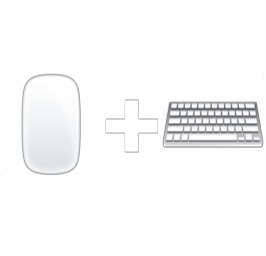
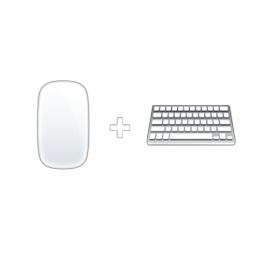
style

Changed region(s): [[0.0938, 0.2812, 1.0, 0.6562], [0.0625, 0.3438, 0.2812, 0.6875]]

diff --git a/public/gfx/sprites.css b/public/gfx/sprites.css
@@ -14,112 +14,112 @@
 
 /* Specific icons */
 .icon-assign {
-    background-size: 565.9218% 588.2022%;
-    background-position: 46.7626% 30.7250%;
+    background-size: 284.3575% 1147.1910%;
+    background-position: 0.3030% 62.2854%;
     aspect-ratio: 179 / 178;
 }
 .icon-attack {
-    background-size: 592.3977% 612.2807%;
-    background-position: 21.8527% 93.7215%;
+    background-size: 297.6608% 1194.1520%;
+    background-position: 0.2959% 81.2400%;
     aspect-ratio: 171 / 171;
 }
 .icon-autoplay {
-    background-size: 633.1250% 619.5266%;
-    background-position: 42.9074% 51.2528%;
+    background-size: 318.1250% 1208.2840%;
+    background-position: 99.7135% 96.6898%;
     aspect-ratio: 160 / 169;
 }
 .icon-campaigns {
-    background-size: 559.6685% 578.4530%;
-    background-position: 0.1202% 53.4642%;
+    background-size: 281.2155% 1128.1768%;
+    background-position: 0.3049% 13.9172%;
     aspect-ratio: 181 / 181;
 }
 .icon-close {
-    background-size: 744.8529% 775.5556%;
-    background-position: 85.6328% 19.9561%;
+    background-size: 374.2647% 1512.5926%;
+    background-position: 98.3914% 31.7777%;
     aspect-ratio: 136 / 135;
 }
 .icon-defend {
-    background-size: 830.3279% 578.4530%;
-    background-position: 99.8878% 0.1155%;
+    background-size: 417.2131% 1128.1768%;
+    background-position: 94.8320% 39.9248%;
     aspect-ratio: 122 / 181;
 }
 .icon-dice {
-    background-size: 572.3164% 594.8864%;
-    background-position: 22.0096% 73.8232%;
+    background-size: 287.5706% 1160.2273%;
+    background-position: 54.5181% 73.1511%;
     aspect-ratio: 177 / 176;
 }
 .icon-gamepad {
-    background-size: 559.6685% 666.8790%;
-    background-position: 31.1298% 12.1348%;
+    background-size: 281.2155% 1300.6369%;
+    background-position: 56.0976% 35.2785%;
     aspect-ratio: 181 / 157;
 }
 .icon-help {
-    background-size: 1055.2083% 787.2180%;
-    background-position: 96.9466% 20.1313%;
+    background-size: 530.2083% 1535.3383%;
+    background-position: 88.3777% 48.5071%;
     aspect-ratio: 96 / 133;
 }
 .icon-input-mk {
-    background-size: 382.2642% 997.1429%;
-    background-position: 34.6257% 0.1062%;
-    aspect-ratio: 265 / 105;
+    background-size: 231.3636% 2219.5652%;
+    background-position: 89.6194% 0.0513%;
+    aspect-ratio: 220 / 92;
 }
 .icon-map {
-    background-size: 559.6685% 578.4530%;
-    background-position: 0.1202% 74.5958%;
+    background-size: 281.2155% 1128.1768%;
+    background-position: 75.0000% 16.0666%;
     aspect-ratio: 181 / 181;
 }
 .icon-music-off {
-    background-size: 569.1011% 588.2022%;
-    background-position: 68.3832% 21.1738%;
+    background-size: 285.9551% 1147.1910%;
+    background-position: 54.9849% 63.5730%;
     aspect-ratio: 178 / 178;
 }
 .icon-music-on {
-    background-size: 569.1011% 591.5254%;
-    background-position: 68.3832% 41.8391%;
+    background-size: 285.9551% 1153.6723%;
+    background-position: 0.3021% 71.9035%;
     aspect-ratio: 178 / 177;
 }
 .icon-paint {
-    background-size: 559.6685% 578.4530%;
-    background-position: 0.1202% 95.7275%;
+    background-size: 281.2155% 1128.1768%;
+    background-position: 0.3049% 23.7507%;
     aspect-ratio: 181 / 181;
 }
 .icon-retry {
-    background-size: 559.6685% 578.4530%;
-    background-position: 24.8798% 30.8314%;
+    background-size: 281.2155% 1128.1768%;
+    background-position: 56.0976% 25.9001%;
     aspect-ratio: 181 / 181;
 }
 .icon-save {
-    background-size: 559.6685% 578.4530%;
-    background-position: 63.2212% 0.1155%;
+    background-size: 281.2155% 1128.1768%;
+    background-position: 0.3049% 33.5841%;
     aspect-ratio: 181 / 181;
 }
 .icon-scenario {
-    background-size: 562.7778% 612.2807%;
-    background-position: 90.1561% 56.9635%;
+    background-size: 282.7778% 1194.1520%;
+    background-position: 0.3040% 52.8060%;
     aspect-ratio: 180 / 171;
 }
 .icon-settings {
-    background-size: 565.9218% 584.9162%;
-    background-position: 85.0120% 0.1152%;
+    background-size: 284.3575% 1140.7821%;
+    background-position: 55.4545% 53.8916%;
     aspect-ratio: 179 / 179;
 }
 .icon-sfx-off {
-    background-size: 562.7778% 588.2022%;
-    background-position: 90.1561% 36.7089%;
+    background-size: 282.7778% 1147.1910%;
+    background-position: 0.3040% 43.3476%;
     aspect-ratio: 180 / 178;
 }
 .icon-sfx-on {
-    background-size: 562.7778% 588.2022%;
-    background-position: 22.0888% 53.2796%;
+    background-size: 282.7778% 1147.1910%;
+    background-position: 55.6231% 44.2060%;
     aspect-ratio: 180 / 178;
 }
 .icon-zoom-in {
-    background-size: 1066.3158% 1125.8065%;
-    background-position: 39.5425% 78.0922%;
+    background-size: 535.7895% 2195.6989%;
+    background-position: 87.9227% 54.4382%;
     aspect-ratio: 95 / 93;
 }
 .icon-zoom-out {
-    background-size: 1066.3158% 3877.7778%;
-    background-position: 0.1089% 99.2157%;
+    background-size: 535.7895% 7562.9630%;
+    background-position: 87.9227% 57.3697%;
     aspect-ratio: 95 / 27;
 }

diff --git a/scripts/export-graphics.html b/scripts/export-graphics.html
@@ -134,8 +134,8 @@
             { name: 'icon_music_off', emoji: '🔇', label: 'Music Off' },
             { name: 'icon_sfx_on', emoji: '🔔', label: 'SFX On' },
             { name: 'icon_sfx_off', emoji: '🔕', label: 'SFX Off' },
-            { name: 'icon_zoom_in', emoji: '+', label: 'Zoom In' },
-            { name: 'icon_zoom_out', emoji: '−', label: 'Zoom Out' },
+            { name: 'icon_zoom_in', emoji: '+', label: 'Zoom In', color: '#00FFFF' },
+            { name: 'icon_zoom_out', emoji: '−', label: 'Zoom Out', color: '#00FFFF' },
             { name: 'icon_campaigns', emoji: '📋', label: 'Campaigns' },
             { name: 'icon_close', emoji: '✕', label: 'Close / Deselect' },
             { name: 'icon_map', emoji: '🗺', label: 'Map' },
@@ -289,7 +289,7 @@
         /**
          * Render a UI icon (emoji or text character) at full SPRITE_SIZE resolution
          */
-        function createIconTexture(emoji, scale = 0.7) {
+        function createIconTexture(emoji, scale = 0.7, color = 0xffffff) {
             const size = SPRITE_SIZE;
             const container = new PIXI.Container();
 
@@ -303,7 +303,7 @@
                 text: emoji,
                 style: {
                     fontSize: size * scale,
-                    fill: 0xffffff,
+                    fill: color,
                     fontFamily: 'Arial, "Segoe UI Emoji", "Apple Color Emoji", "Noto Color Emoji"',
                     fontWeight: 'bold',
                     align: 'center'
@@ -314,6 +314,67 @@
             text.x = size / 2;
             text.y = size / 2;
             container.addChild(text);
+
+            const texture = app.renderer.generateTexture({
+                target: container,
+                resolution: 1,
+                antialias: true
+            });
+
+            container.destroy({ children: true });
+            return texture;
+        }
+
+        /**
+         * specialized texture for Mouse + Keyboard (icon_input_mk)
+         * to handle spacing and sizing of the '+' sign
+         */
+        function createMouseKeyboardTexture() {
+            const size = SPRITE_SIZE;
+            const container = new PIXI.Container();
+
+            // Invisible bounds
+            const bounds = new PIXI.Graphics();
+            bounds.rect(0, 0, size, size);
+            bounds.fill({ color: 0x000000, alpha: 0 });
+            container.addChild(bounds);
+
+            const style = {
+                fill: 0xffffff,
+                fontFamily: 'Arial, "Segoe UI Emoji", "Apple Color Emoji", "Noto Color Emoji"',
+                fontWeight: 'bold',
+                align: 'center'
+            };
+
+            // Mouse (Left)
+            const mouse = new PIXI.Text({
+                text: '🖱',
+                style: { ...style, fontSize: size * 0.35 }
+            });
+            mouse.anchor.set(0.5);
+            mouse.x = size * 0.25;
+            mouse.y = size * 0.5;
+            container.addChild(mouse);
+
+            // Plus (Center, Small)
+            const plus = new PIXI.Text({
+                text: '+',
+                style: { ...style, fontSize: size * 0.15 }
+            });
+            plus.anchor.set(0.5);
+            plus.x = size * 0.47;
+            plus.y = size * 0.5;
+            container.addChild(plus);
+
+            // Keyboard (Right)
+            const kb = new PIXI.Text({
+                text: '⌨',
+                style: { ...style, fontSize: size * 0.35 }
+            });
+            kb.anchor.set(0.5);
+            kb.x = size * 0.75;
+            kb.y = size * 0.5;
+            container.addChild(kb);
 
             const texture = app.renderer.generateTexture({
                 target: container,
@@ -391,7 +452,12 @@
             // UI Icons
             log('Creating UI icons...', 'info');
             for (const icon of UI_ICONS) {
-                const tex = createIconTexture(icon.emoji, icon.scale);
+                let tex;
+                if (icon.name === 'icon_input_mk') {
+                    tex = createMouseKeyboardTexture();
+                } else {
+                    tex = createIconTexture(icon.emoji, icon.scale, icon.color);
+                }
                 const blob = await textureToBlob(tex);
                 generatedTextures.set(icon.name, { blob, name: icon.name, label: icon.label });
                 tex.destroy();

diff --git a/styles.css b/styles.css
@@ -4650,9 +4650,11 @@ canvas {
     align-items: center;
 }
 
-/* Fix Zoom Buttons to be square (36px) and handle icon aspect ratios */
+/* Fix Zoom and Audio Buttons to be square (36px) and handle icon aspect ratios */
 #zoom-in-btn,
-#zoom-out-btn {
+#zoom-out-btn,
+#music-toggle,
+#sfx-toggle {
     width: 36px !important;
     height: 36px !important;
     padding: 0 !important;
